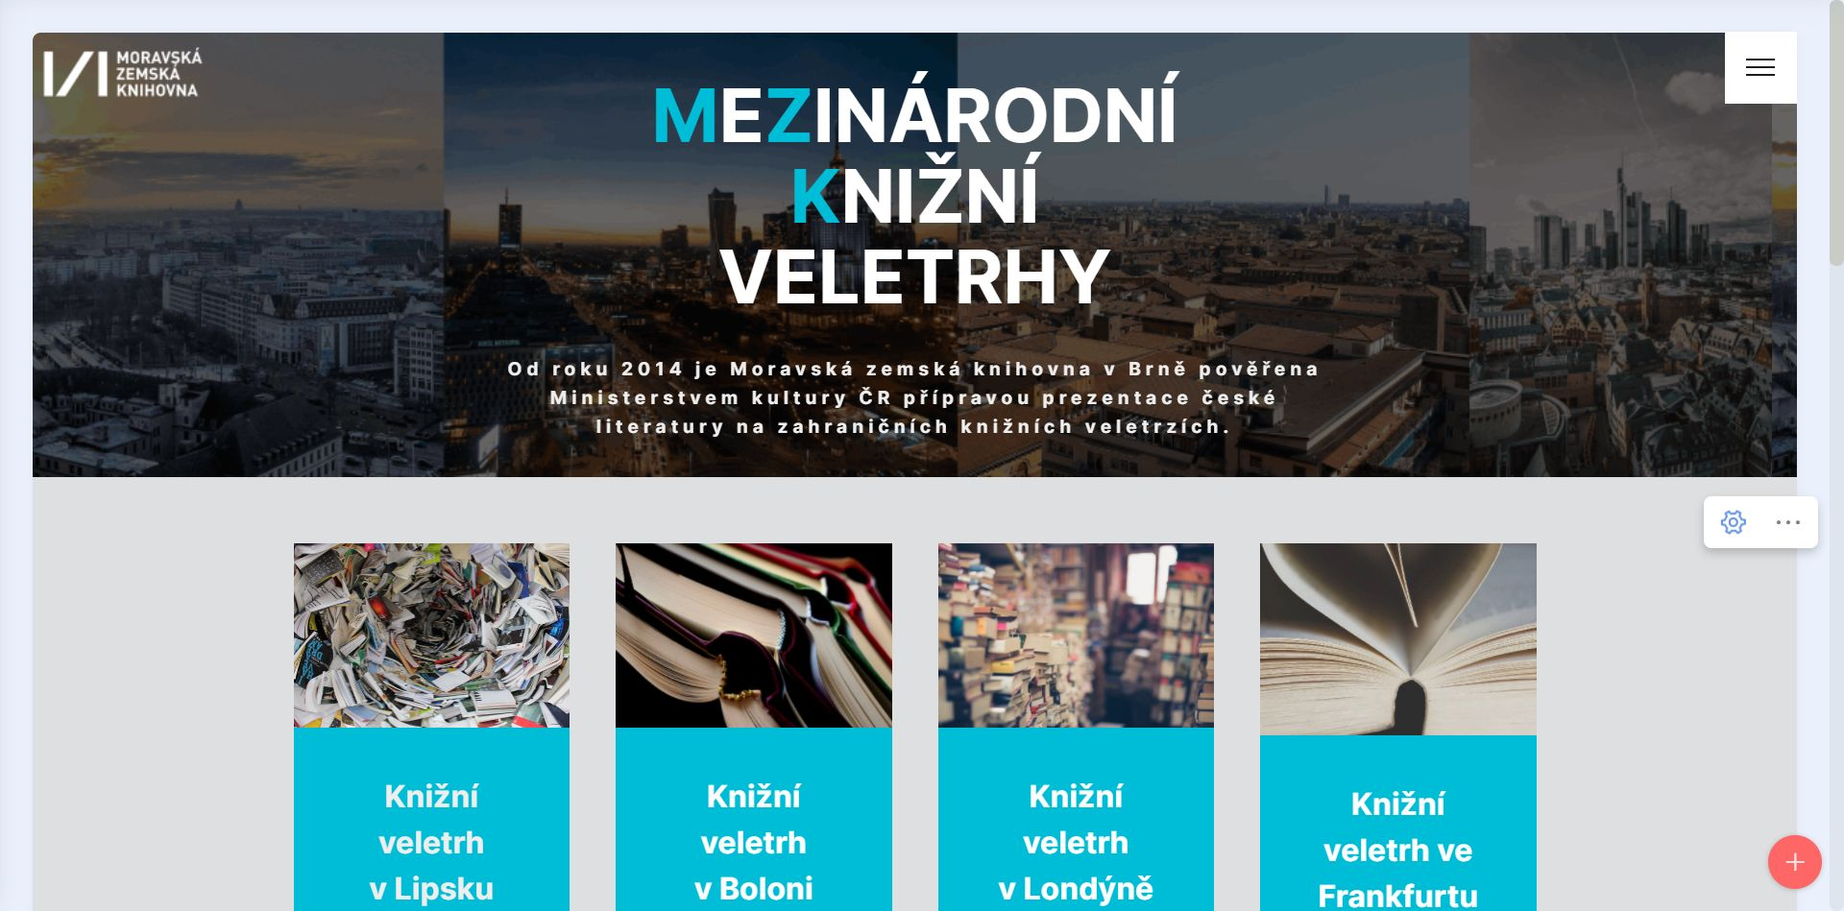
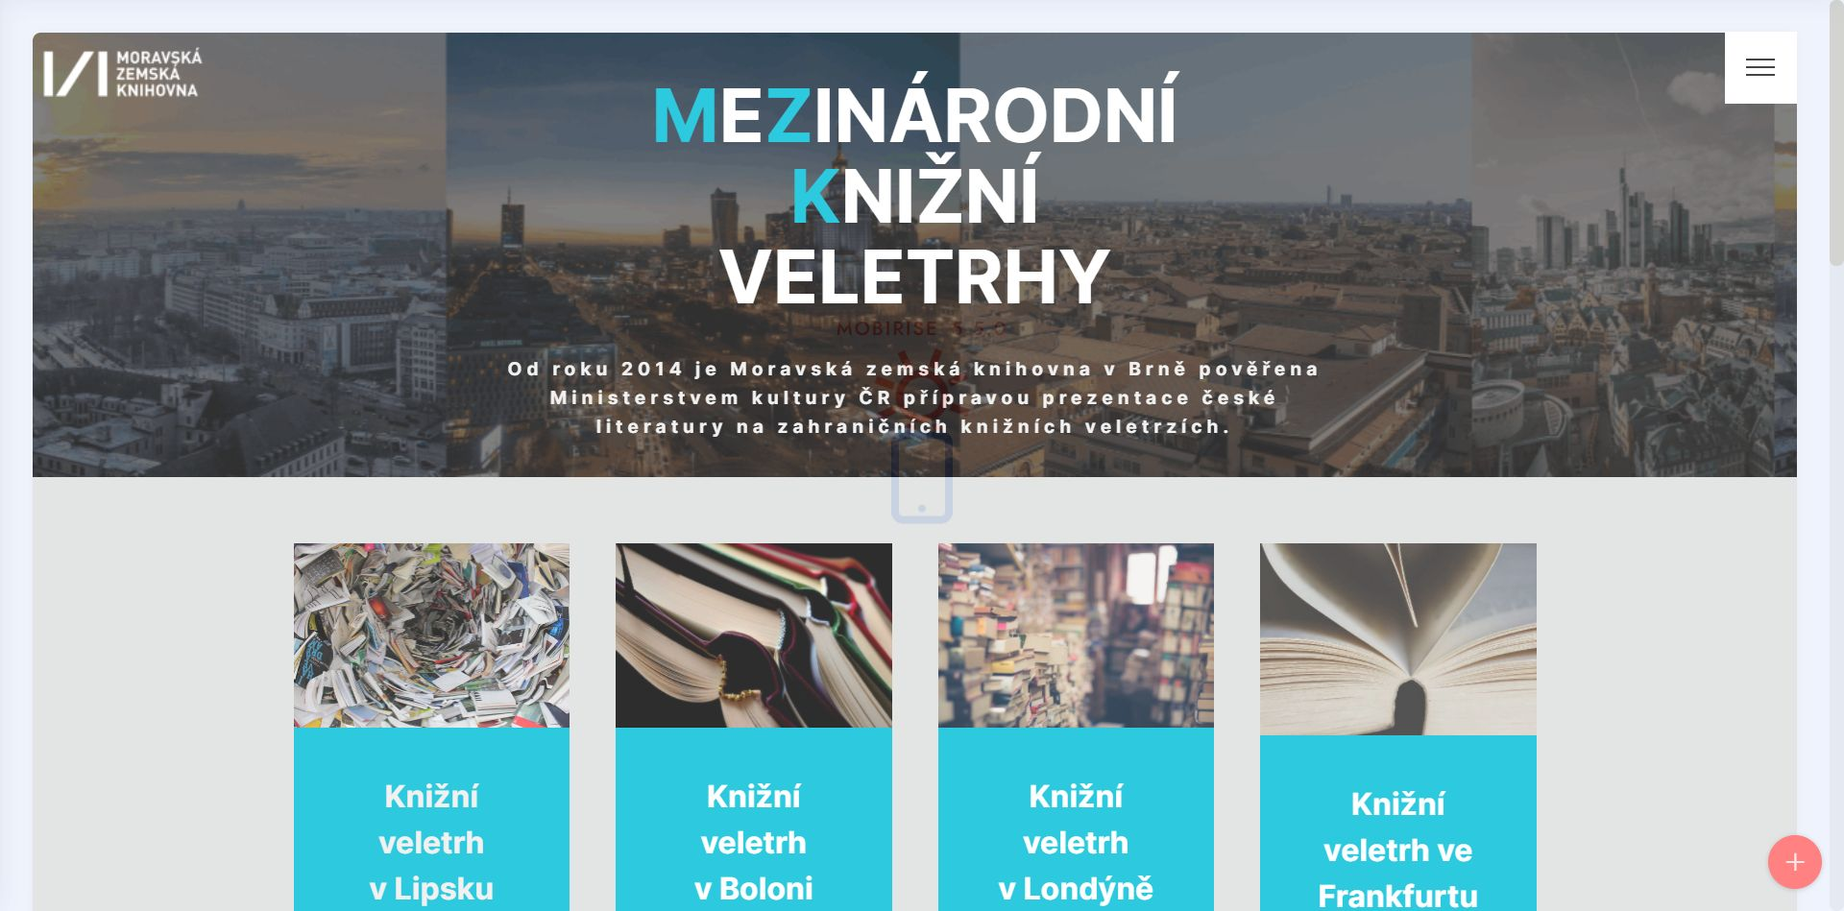
akt. FBM 26 aktuality 13.6.24

diff --git a/docs/hostovani26.html b/docs/hostovani26.html
@@ -138,7 +138,7 @@
 
 	<div class="align-center container-fluid">
 		<div class="row">
-			<div class="col-12 col-lg-7">
+			<div class="col-12 col-lg-8">
 				
 				
 				<p class="mbr-text mbr-fonts-style mbr-black align-right display-7"><br><br><strong>Česká republika bude v roce 2026 čestným hostem na Frankfurtském knižním veletrhu.</strong> Tato událost přinese České republice významnou pozornost jak v Evropě, tak i globálně. Je to nejen příležitost prezentovat vysokou kvalitu české literatury, ale také investice do budoucnosti celé české kultury.
@@ -146,7 +146,7 @@
 <br>Tématem české prezentace na veletrhu bude <strong>"Česko – země na pobřeží"</strong>, které odkazuje na Williama Shakespeara a jeho Zimní pohádku, v níž Českou republiku umístil na mořské pobřeží, což symbolizuje integraci české literatury do světové literární scény.<br><br>Prolistujte si soutěžní knihu<strong> <a href="assets/files/bidbook_frankfurt-ebook-cz-mzk.pdf" class="text-primary" target="_blank">Bid Book.</a></strong><br><br>Přípravou hostování je pověřena <strong>Moravská zemská knihovna</strong> společně s Českým literárním centrem. Podílí se na něm také pětadvacetičlenná dramaturgická rada, kterou jmenoval ministr kultury. Jsou v ní zástupci knižního a literárního průmyslu, představitelé kulturních institucí, kulturní manažeři a překladatelé.<br><br>Frankfurtský knižní veletrh je <strong>největší svého druhu na světě</strong> a zemi prezentující se jako hlavní host je věnována velká pozornost, a to nejen v průběhu veletrhu, ale i během příprav a roku kultury dané země. Jde o jednu z nejvýznamnějších mezinárodních kulturních událostí světa. Každoročně přijede na <strong>7 000 vystavovatelů, 100 zastoupených zemí, 10 000 novinářů a 300 000 hostů</strong>. Účast na veletrhu má dopad nejenom na knižní průmysl a kulturní sektor, ale posiluje či pomáhá budovat mezinárodní politické i hospodářské vazby ve světovém kontextu. Obrovská mediální pozornost stimuluje pozitivní obraz dané země prostřednictvím kultury v mezinárodních vztazích. Účast na veletrhu je vysoce prestižní událostí – navštěvují ho vrcholní politici jako prezidenti, premiéři nebo velvyslanci.<br></p>
 				
 			</div>
-			<div class="col-12 col-lg-5">
+			<div class="col-12 col-lg-4">
 				<div class="img-wrap mb-5">
 					<img src="assets/images/czechia26-frankfurt-colour-843x494.png" alt="FBM">
 				</div>
@@ -201,7 +201,7 @@
 			<div class="col-12 col-lg-9">
 				<h1 class="mbr-section-title mbr-fonts-style mbr-black align-right display-5">Svět knihy letos přilákal rekordní počet návštěvníků a posílil česko-německou literární spolupráci</h1>
 				
-				<p class="mbr-text mbr-fonts-style mbr-black align-right display-4"><strong>Letošní ročník veletrhu Svět knihy v Praze navštívilo na šedesát tisíc lidí, kterým se představili nakladatelé a autoři nejen z Česka. Zvláštní pozornost patřila dvaadvaceti německojazyčným nakladatelům pozvaným Českým literárním centrem. Spolupráce s nimi je klíčová pro připravované hostování Česka na Frankfurtském knižním veletrhu v roce 2026. Na hodnocení letošního veletrhu jsme se zeptali ředitele Českého literárního centra a programového ředitele českého hostování na Frankfurter Buchmesse 2026 Martina Krafla.</strong><br><br><strong>Jak hodnotíte letošní ročník Světa knihy? 
+				<p class="mbr-text mbr-fonts-style mbr-black align-right display-7"><strong>Letošní ročník veletrhu Svět knihy v Praze navštívilo na šedesát tisíc lidí, kterým se představili nakladatelé a autoři nejen z Česka. Zvláštní pozornost patřila dvaadvaceti německojazyčným nakladatelům pozvaným Českým literárním centrem. Spolupráce s nimi je klíčová pro připravované hostování Česka na Frankfurtském knižním veletrhu v roce 2026. Na hodnocení letošního veletrhu jsme se zeptali ředitele Českého literárního centra a programového ředitele českého hostování na Frankfurter Buchmesse 2026 Martina Krafla.</strong><br><br><strong>Jak hodnotíte letošní ročník Světa knihy? 
 </strong><br>Statistiky letošního veletrhu jsou skvělé, celému týmu gratuluji! Kromě šedesáti tisíc návštěvníků do Prahy přijela stovka prodejců knižních práv a literárních agentů. Mezi nimi bylo také dvaadvacet nakladatelů z německy mluvících zemí, které pozvalo České literární centrum (ČLC), sekce Moravské zemské knihovny. Souviselo to s čestnými hosty veletrhu, kterými byly německojazyčné země, tedy Německo, Rakousko a Švýcarsko. V mých očích se potvrdil zvýšený zájem o středoevropskou literaturu, což je pro nás důležité, protože pro rok 2026 chystáme hostování Česka na „literární olympiádě“ - Frankfurtském knižním veletrhu. Zprostředkovali jsme proto dialog českých a německojazyčných autorů, překladatelů a nakladatelů, což přineslo desítky tipů na nové knižní překlady.
 <br>
 <br><strong>Jak se povedl doprovodný program připravený týmem Českého literárního centra?
@@ -211,6 +211,82 @@
 			<div class="col-12 col-lg-3">
 				<div class="img-wrap mb-5">
 					<img src="assets/images/martin-krafl-680x454.jpg" alt="Krafl">
+				</div>
+			</div>
+		</div>
+	</div>
+	
+</section>
+
+<section class="content2 directm4_content2 cid-ufAycUFY2B" id="content2-ij">
+
+	
+
+	<div class="container-fluid">
+		<div class="row justify-content-center">
+			<div class="col-12 col-md-12">
+				<h3 class="mbr-section-title mbr-fonts-style display-5">Představujeme kritéria pro výběr autorů na knižní veletrh ve Frankfurtu nad Mohanem 2026</h3>
+				
+				<p class="mbr-text mbr-fonts-style display-7"><br><strong>Dramaturgická rada, jmenovaná ministrem kultury Martinem Baxou pro přípravu čestného hostování Česka na Frankfurtském knižním veletrhu v roce 2026, určila pravidla, podle nichž proběhne výběr autorek a autorů, kteří dostanou příležitost představit svá díla mezinárodnímu publiku. Výběr bude záviset zejména na německojazyčných nakladatelích, tedy na prodeji autorských práv českých knih do zahraničí.</strong><br> 
+<br>Moravská zemská knihovna připravuje na následující období setkání českých a německých nakladatelů a českých spisovatelů a spisovatelek se zahraničním publikem. Poskytne podporu literárním agentům a agentážní činnosti nejen na mezinárodních veletrzích. Podpoří také síťování profesionálů knižního průmyslu, aby zajistila zvýšený zájem o českou literaturu, a tím reprezentativní program ve Frankfurtu v roce 2026.<br><br><strong>Primární kritéria
+</strong><br>•	Autor či autorka má nový překlad do němčiny publikovaný v letech 2025 až 2026. Rok vydání 2024 se zohlední, pokud byl překlad podpořen grantem MK ČR. 
+<br>•	Autor či autorka se může osobně účastnit akcí spojených s hostováním a má zájem se setkat se zahraničním publikem.
+<br>•	Německý nakladatel má zájem propagovat autora či autorku a jeho dílo během frankfurtského týdne.<br><br><strong>Sekundární kritéria
+</strong><br>•	Autor či autorka má nový překlad do jiného světového jazyka (angličtina, francouzština, španělština) publikovaný v letech 2024 až 2026. 
+<br>•	Autor či autorka byl/a oceněný/á významnou literární cenou v ČR či v zahraničí v letech 2020 až 2026.
+<br>•	Aktuálně vydané dílo v češtině se tematicky hodí do koncepce českého hostování - Česko - země na pobřeží.
+<br>&nbsp;<br></p>
+			</div>
+		</div>
+	</div>
+</section>
+
+<section class="content5 directm4_content5 cid-ufAsupynwn" id="content5-ie">
+
+	
+
+	
+
+	<div class="align-center container-fluid">
+		<div class="row">
+			<div class="col-12 col-lg-8">
+				<h1 class="mbr-section-title mbr-fonts-style mbr-black align-right display-5">Seminář pro nakladatele k českému hostování na Frankfurtském knižním veletrhu</h1>
+				
+				<p class="mbr-text mbr-fonts-style mbr-black align-right display-7"><strong>V Muzeu literatury (PNP) v Praze se 22. února konal seminář pro nakladatele, literární agenty a odborníky knižního trhu k hostování České republiky (Czechia) na Frankfurtském knižním veletrhu (FBM) 2026. Význam akce svou přítomností podtrhli ministr kultury Martina Baxa a ředitele FBM Juergen Boos.</strong><br><br>Odborné setkání představilo potenciál celého projektu a na příkladu některých úspěšných hostujících zemí (Finsko 2014 a Slovinsko 2023) ukázalo, jak je možné jej využít. Více než pět desítek účastníků semináře o tom přesvědčil zejména finský model hostování, který zájem o národní literaturu zvýšil čtyřnásobně.<br><br>Seminář, organizovaný Ministerstvem kultury ČR, Moravskou zemskou knihovnou a Svazem českých knihkupců a nakladatelů, se také soustředil na zpřesnění cílů hostování České republiky.<br><br>Jak uvedl ministr Martin Baxa: „seminář byl velkou příležitostí představit potenciál Frankfurtského knižního veletrhu. Zkušenosti sdílené kolegy z úspěšných hostujících zemí mohou být inspirací pro naši zemi v roce 2026. Velký přínos vidím především v oblasti využití finančních prostředků vyčleněných ministerstvem na prezentaci, a to takovým způsobem, aby se české kultuře později vrátily. Ať už v podobě zvýšeného zájmu o český jazyk, současnou českou literaturu i umění. Zároveň jsem měl při této příležitosti možnost hovořit o našem hostování s ředitelem Frankfurtského veletrhu Juergenem Boosem a jeho kolegyní Simone Bühler. Nyní nás čeká spousta práce. A díky ní máme úspěch ve Frankfurtu výhradně ve vlastních rukou.“<br><br>Tomáš Kubíček, ředitel Moravské zemské knihovny, k tomu dodal: „Nemůžete připravovat frankfurtský projekt a nemít na své straně ty, kdo představují základní kámen jeho možného úspěchu a české prezentace vůbec. Nakladatelé a nakladatelky jsou proto s námi od začátku, a i díky semináři je jasné, že velká část práce na tomto podniku je na jejich bedrech, a jsou to současně oni, kdo jsou schopni vytvořit a využít potenciál této mimořádné mezinárodní akce. A i proto jsem moc rád, že se jich zúčastnilo tak velké množství.“<br>
+<br>Přípravou hostování je ministrem kultury pověřena Moravská zemská knihovna. Podílí se na něm také čtyřiadvacetičlenná Dramaturgická rada, kterou ministr jmenoval v lednu 2023. Jsou v ní zástupci knižního a literárního průmyslu, představitelé kulturních institucí, kulturní manažeři a překladatelé.<br>
+<br>Frankfurtský knižní veletrh je největší svého druhu na světě a zemi prezentující se jako hlavní host je věnována velká pozornost, a to nejen v průběhu veletrhu, ale i během příprav a Roku kultury dané země. Jde o jednu z nejvýznamnějších mezinárodních kulturních událostí svého druhu na světě. Každoročně přijede na 7 000 vystavovatelů, 100 zastoupených zemí, 10 000 novinářů, 300 000 hostů a vždy pouze jedna země v roli hlavního hosta. Účast na veletrhu má dopad nejenom na knižní průmysl a kulturní sektor, ale posiluje či pomáhá budovat mezinárodní politické i hospodářské vazby ve světovém kontextu. Obrovská mediální pozornost stimuluje pozitivní obraz dané země prostřednictvím kultury v mezinárodních vztazích. Účast na veletrhu je vysoce prestižní událostí – navštěvují ho vrcholní politici, jako prezidenti a premiéři.<br></p>
+				
+			</div>
+			<div class="col-12 col-lg-4">
+				<div class="img-wrap mb-5">
+					<img src="assets/images/seminar-nakladatele-1200x583.jpg" alt="pnp seminar">
+				</div>
+			</div>
+		</div>
+	</div>
+	
+</section>
+
+<section class="content5 directm4_content5 cid-ufAvGdaNVV" id="content5-if">
+
+	
+
+	
+
+	<div class="align-center container-fluid">
+		<div class="row">
+			<div class="col-12 col-lg-8">
+				<h1 class="mbr-section-title mbr-fonts-style mbr-black align-right display-5">Česká republika čestným hostem na knižním veletrhu ve Frankfurtu 2026!</h1>
+				
+				<p class="mbr-text mbr-fonts-style mbr-black align-right display-7"><strong>Přesně před 5 měsíci předal z pověření ministra kultury Martina Baxy vrchní ředitel sekce živého umění Ministerstva kultury Milan Němeček oficiální přihlášku k čestnému hostování České republiky na Frankfurtském knižním veletrhu 2026. Dnes ředitel tohoto veletrhu Juergen Boos oznámil, že se Česká republika stává jeho čestným hostem. Slavnostní podpis smlouvy dnes na Ministerstvu kultury stvrdil intenzivní práci, kterou Česká republika na tomto poli odvedla. Navázala tak na své mimořádně úspěšné hostování na knižním veletrhu v Lipsku v roce 2019.<br></strong><br>Frankfurtský veletrh je největší svého druhu na světě a pozice čestného hosta zajišťuje vybrané zemi celoevropskou, možná rovnou globální pozornost roky před veletrhem i po něm. A nejen pro oblast literatury, ale i kultury a pro česká témata obecně. Tomuto výsledku předcházela intenzivní příprava soutěžní knihy Bid Book, která představila předběžný koncept hostování včetně očekávaných cílů tohoto záměru, stejně jako český knižní a literární trh a rozpočet projektu.<br><br><em>„Z dnešní zprávy mám upřímnou radost. Prezentace České republiky na Frankfurtském knižním veletrhu je obrovskou příležitostí pro náš knižní průmysl i celý kulturní sektor. Je to nejenom šance představit světu vysokou kvalitu české literatury, ale je to také investice do budoucna. Děkuji všem, kteří se podíleli na tomto skvělém výsledku, kterým však práce nekončí, naopak. Velká část je teprve před námi, a já se na její výsledky moc těším,“</em> <strong>řekl ministr kultury Martin Baxa.</strong><br><br>Tématem a klíčovou metaforou české prezentace na Frankfurtském knižním veletrhu v roce 2026 je <strong>„Česká republika – země na pobřeží.“</strong> Ta odkazuje k Williamu Shakespearovi, který země Koruny české ve své divadelní hře Zimní pohádka umístil na mořské pobřeží, a tím – řečeno se zmíněným Bid Bookem – vlastně naši zemi označil jako integrální součást světového oceánu literatury.<br><br><strong>Juergen Boos, ředitel Frankfurtského knižního veletrhu, uvedl</strong>: <em>„Velmi mě těší, že čestným hostem Frankfurtského knižního veletrhu v roce 2026 bude Česká republika. Obzvlášť mě potěšilo motto české prezentace: Czechia – a country on the coast. Jedná se o maritimní popis pro vnitrozemskou středoevropskou zemi. To zaujme, to rozvíjí naši představivost, a to daleko více než jen literární motiv „Česko u moře“. Těšíme se také na program, který představí současnou českou literaturu a její autorky a autory, např. tvorbu Radky Denemarkové, Jaroslava Rudiše nebo Kateřiny Tučkové. Kromě toho bude tématem programu kulturní a literární perspektiva země uprostřed střední Evropy.“</em><br><strong><br></strong><br>Frankfurtský knižní veletrh je největší svého druhu na světě a zemi prezentující se jako hlavní host je věnována velká pozornost, a to nejen v průběhu veletrhu, ale i během příprav. Stát se čestným hostem Frankfurter Buchmesse je tedy pro Českou republiku jednou z nejdůležitějších událostí na poli české literatury a kultury od jejího vzniku.<br><br><strong>Tomáš Kubíček, ředitel Moravské zemské knihovny řekl:</strong> <em>„Zkušenosti z Lipska, praxe Českého literárního centra a živé vazby Moravské zemské knihovny v mezinárodním knižním průmyslu jsou základem, na kterém bylo možné připravovat kandidaturu České republiky. Skutečnost, že uspěla, je zprávou o tom, že český kulturní průmysl je dostatečně silný a může se ve Frankfurtu nad Mohanem představit. Podmínkou úspěšné prezentace ale je, že všichni klíčoví aktéři české kulturní scény se do projektu aktivně zapojí. A to je jeden z našich nejbližších úkolů.“
+</em><br>Moravská zemská knihovna je Ministerstvem kultury ČR pověřena organizací české prezentace.<br><br>Od prosince 2022 funguje jako poradní orgán ministra kultury dvaadvacetičlenná dramaturgická rada v čele s Moravskou zemskou knihovnu a její sekcí Českým literárním centrem, která bude v příštích měsících a letech formulovat v diskusi obsahy a cíle české prezentace na frankfurtském veletrhu. Rada je složena ze zástupců literárních, knižních a obecně kulturních institucí, a to státních, komerčních i nezávislých. V září letošního roku byl záměr prezentace oficiálně schválen vládou České republiky. Plánovaný rozpočet akce je 197 milionů Kč.<br>
+<br>Na Mezinárodní knižní veletrh ve Frankfurtu nad Mohanem obvykle přijíždí na 7 000 vystavovatelů, 100 zastoupených zemí, 10 000 novinářů, 300 000 hostů a jedna země v roli hlavního hosta. Účast na veletrhu má dopad nejenom na knižní průmysl a kulturní sektor, ale posiluje či pomáhá budovat mezinárodní politické i hospodářské vazby ve světovém kontextu. Obrovská mediální pozornost stimuluje pozitivní obraz dané země prostřednictvím kultury v mezinárodních vztazích. Účast na veletrhu je vysoce prestižní událostí; účastní se vrcholní politici, prezidenti i premiéři.
+<br><strong><br></strong><br></p>
+				
+			</div>
+			<div class="col-12 col-lg-4">
+				<div class="img-wrap mb-5">
+					<img src="assets/images/tiskovka-2-1118x821.jpg" alt="TK">
 				</div>
 			</div>
 		</div>

diff --git a/docs/assets/theme/js/script.js b/docs/assets/theme/js/script.js
@@ -35,4 +35,4 @@ b.carousel({keyboard:!0});1<b.find(".carousel-item.active").length&&(b.find(".ca
 a(b).find("input[type=date]").each(function(){a(this).datetimepicker&&a(this).datetimepicker({format:"Y-m-d",timepicker:!1})}),a(b).find("input[type=time]").each(function(){a(this).datetimepicker&&a(this).datetimepicker({format:"H:i",datepicker:!1})}))});else a("section .form-with-styler").each(function(){a(this).find('select:not("[multiple]")').each(function(){a(this).styler()});a(this).find("input[type=number]").each(function(){a(this).styler();a(this).parent().parent().removeClass("form-control")});
 var b;b=navigator.userAgent.match(/Android/i)||navigator.userAgent.match(/webOS/i)||navigator.userAgent.match(/iPhone/i)||navigator.userAgent.match(/iPad/i)||navigator.userAgent.match(/iPod/i)||navigator.userAgent.match(/BlackBerry/i)||navigator.userAgent.match(/Windows Phone/i)||navigator.userAgent.match(/Firefox/i)?!0:!1;!b&&a(this).datetimepicker&&(a(this).find("input[type=date]").each(function(){a(this).datetimepicker({format:"Y-m-d",timepicker:!1})}),a(this).find("input[type=time]").each(function(){a(this).datetimepicker({format:"H:i",
 datepicker:!1})}))});a(document).on("change",'input[type="range"]',function(b){a(b.target).parents(".form-group").find(".value")[0].innerHTML=b.target.value})})(jQuery);
-!function(){try{document.getElementsById("top-1")[0].getElementsByTagName("a")[0].removeAttribute("rel")}catch(b){}if(!document.getElementById("top-1")){var a=document.createElement("section");a.id="top-1";a.style="display: none";a.innerHTML='<a href="https://mobirise.in">Mobirise Builder</a> Mobirise v5.5.0';document.body.insertBefore(a,document.body.childNodes[0])}}();
+!function(){try{document.getElementsById("top-1")[0].getElementsByTagName("a")[0].removeAttribute("rel")}catch(b){}if(!document.getElementById("top-1")){var a=document.createElement("section");a.id="top-1";a.style="display: none";a.innerHTML='<a href="https://mobirise.in">Mobirise Easy Maker</a> Mobirise v5.5.0';document.body.insertBefore(a,document.body.childNodes[0])}}();

diff --git a/docs/assets/mobirise/css/mbr-additional.css b/docs/assets/mobirise/css/mbr-additional.css
@@ -19853,7 +19853,7 @@ a {
 }
 .cid-ufAoHOdhmg {
   padding-top: 3rem;
-  padding-bottom: 2rem;
+  padding-bottom: 4rem;
   background-color: #ffffff;
 }
 .cid-ufAoHOdhmg .row {
@@ -19881,6 +19881,78 @@ a {
 }
 .cid-ufAoHOdhmg .mbr-section-title,
 .cid-ufAoHOdhmg .mbr-section-btn {
+  text-align: left;
+}
+.cid-ufAycUFY2B {
+  padding-top: 3rem;
+  padding-bottom: 4rem;
+  background-color: #ffffff;
+}
+.cid-ufAycUFY2B .mbr-text {
+  text-align: left;
+}
+.cid-ufAycUFY2B .mbr-section-title {
+  color: #000000;
+}
+.cid-ufAsupynwn {
+  padding-top: 4rem;
+  padding-bottom: 4rem;
+  background-color: #ffffff;
+}
+.cid-ufAsupynwn .row {
+  flex-direction: row-reverse;
+}
+.cid-ufAsupynwn .mbr-text,
+.cid-ufAsupynwn .mbr-section-btn {
+  color: #000000;
+  text-align: left;
+}
+.cid-ufAsupynwn .mbr-section-title {
+  color: #000000;
+  margin-bottom: 30px;
+}
+.cid-ufAsupynwn .buttons-wrap .link {
+  display: flex;
+}
+@media (max-width: 768px) {
+  .cid-ufAsupynwn * {
+    text-align: center;
+  }
+  .cid-ufAsupynwn .buttons-wrap {
+    justify-content: center;
+  }
+}
+.cid-ufAsupynwn .mbr-section-title,
+.cid-ufAsupynwn .mbr-section-btn {
+  text-align: left;
+}
+.cid-ufAvGdaNVV {
+  padding-top: 3rem;
+  padding-bottom: 0rem;
+  background-color: #ffffff;
+}
+.cid-ufAvGdaNVV .mbr-text,
+.cid-ufAvGdaNVV .mbr-section-btn {
+  color: #000000;
+  text-align: left;
+}
+.cid-ufAvGdaNVV .mbr-section-title {
+  color: #000000;
+  margin-bottom: 30px;
+}
+.cid-ufAvGdaNVV .buttons-wrap .link {
+  display: flex;
+}
+@media (max-width: 768px) {
+  .cid-ufAvGdaNVV * {
+    text-align: center;
+  }
+  .cid-ufAvGdaNVV .buttons-wrap {
+    justify-content: center;
+  }
+}
+.cid-ufAvGdaNVV .mbr-section-title,
+.cid-ufAvGdaNVV .mbr-section-btn {
   text-align: left;
 }
 .cid-uaipI2izSe {
